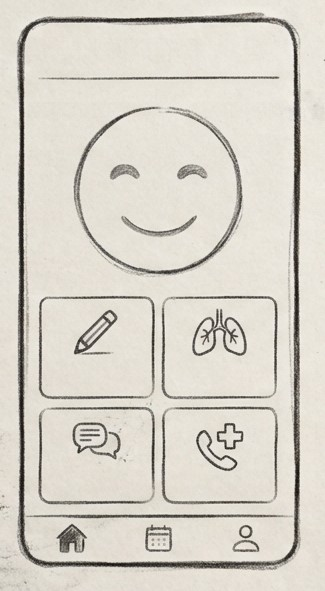
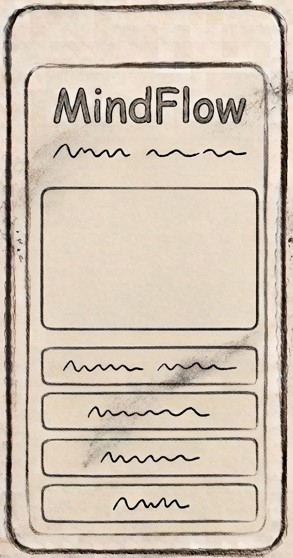
Finalizada actividad 4

diff --git a/docs/0104_hito_del_proyecto.md b/docs/0104_hito_del_proyecto.md
@@ -98,7 +98,7 @@ para mejorar tu salud mental y el bienestar diario.
 | Requisito                                                             | Dónde encaja en tu app                                                                                                                           | Tema |
 |-----------------------------------------------------------------------|--------------------------------------------------------------------------------------------------------------------------------------------------|------|
 | **Persistencia de datos** — la información sobrevive al cerrar la app | Los registros de ánimo se guardan en una base de datos local (Room) y el historial (F2) los muestra aunque se cierre y se vuelva a abrir la app. | 4    |
-| **Servicio web** — la app consulta datos por internet                 | En la pantalla de Inicio, la app hace una petición a internet para descargar el consejo de bienestar del día (F4).                               | 5    |
+| **Servicio web** — la app consulta datos por internet                 | En la pantalla de Inicio, la app hace una petición a internet para descargar frase positiva para mostrar al usuario (F4).                        | 5    |
 | **Sensor o localización**                                             | En la pantalla de Respiración se lee el sensor de luz del móvil: si hay poca luz, el fondo se pone oscuro para no molestar a la vista (F3).      | 6    |
 | **Contenido multimedia** — foto, audio, vídeo o animación             | El ejercicio de respiración reproduce un audio relajante (F3).                                                                                   | 7    |
 
